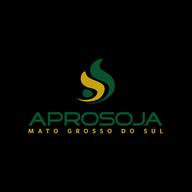
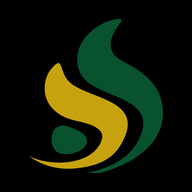
Ícone apenas símbolo com fundo preto + fundo do app preto

Changed region(s): [[0.125, 0.0938, 0.875, 0.9062]]

diff --git a/pwa/index.html b/pwa/index.html
@@ -12,7 +12,7 @@
   <style>
     *{box-sizing:border-box;margin:0;padding:0}
     :root{
-      --bg:#0e1a12;--bg2:#122518;--bg3:#1a3328;
+      --bg:#000000;--bg2:#122518;--bg3:#1a3328;
       --gd:#2D5416;--gn:#4caf50;--gl:#c8e6a0;
       --gold:#c8a415;--light:#e8f0eb;--muted:#7aa88a;--label:#6a9978;
       --border:#1c3d28;--red:#e07878;--ibg:#1a3025;--ibrd:#2d5a3d;
